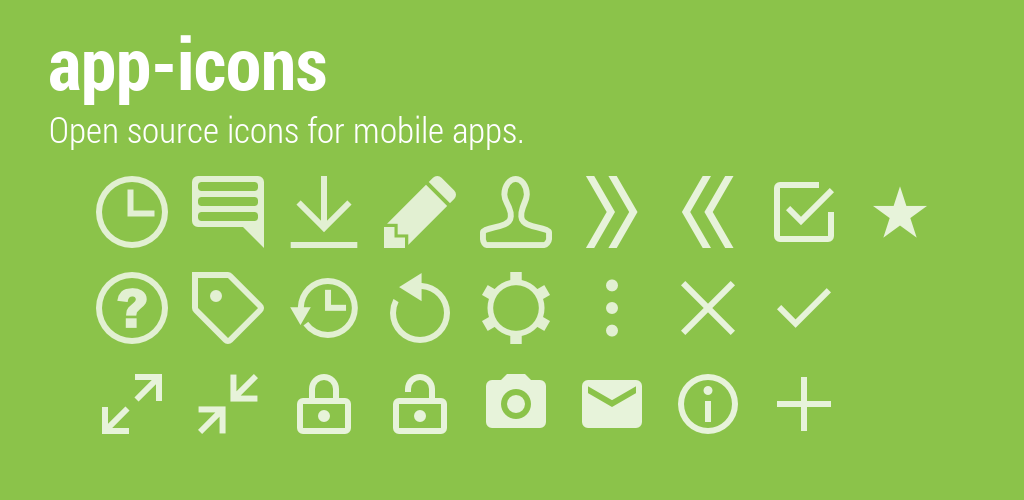
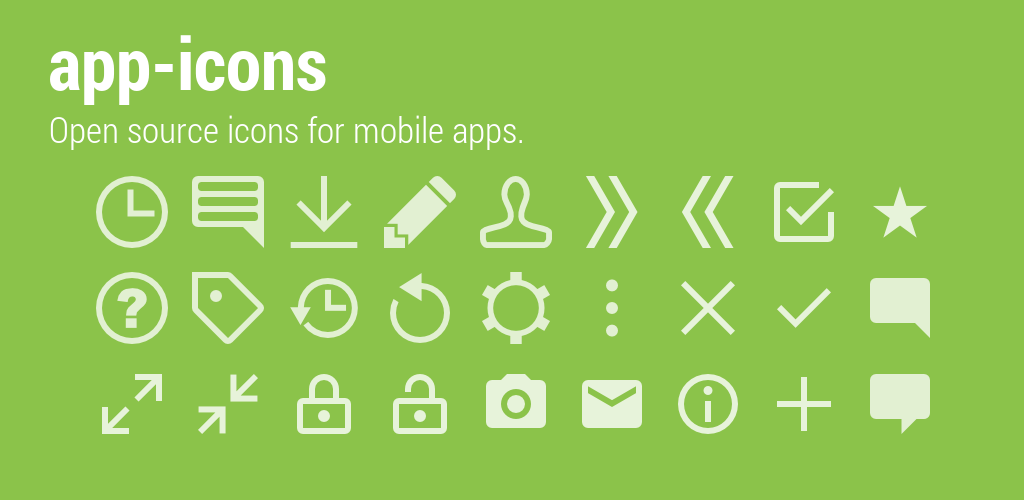
Added other types of comment: comment2, comment3.

Changed region(s): [[0.8438, 0.54, 0.9062, 0.66], [0.8438, 0.75, 0.9062, 0.87]]

diff --git a/app/src/main/java/com/github/ksoichiro/appicons/IconList.java b/app/src/main/java/com/github/ksoichiro/appicons/IconList.java
@@ -7,6 +7,8 @@ public class IconList extends ArrayList<Icon> {
     public IconList() {
         add(new Icon(R.drawable.ic_action_clock, "ic_action_clock"));
         add(new Icon(R.drawable.ic_action_comment, "ic_action_comment"));
+        add(new Icon(R.drawable.ic_action_comment2, "ic_action_comment2"));
+        add(new Icon(R.drawable.ic_action_comment3, "ic_action_comment3"));
         add(new Icon(R.drawable.ic_action_download, "ic_action_download"));
         add(new Icon(R.drawable.ic_action_edit, "ic_action_edit"));
         add(new Icon(R.drawable.ic_action_friend, "ic_action_friend"));
